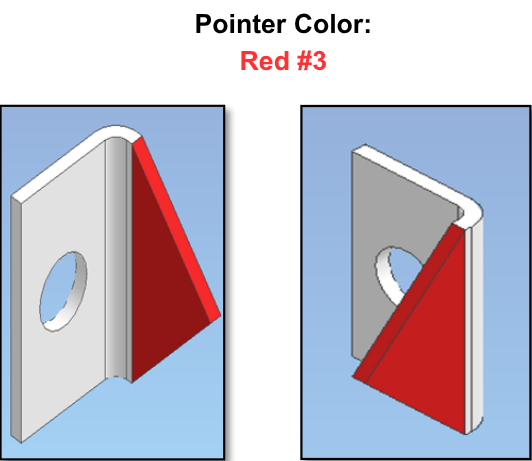
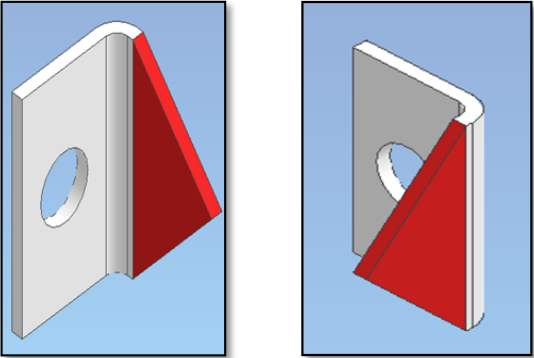
center standard 1

diff --git a/frontend/src/components/3D_Modeling/3D_Standard.tsx b/frontend/src/components/3D_Modeling/3D_Standard.tsx
@@ -134,6 +134,8 @@ const StandardLesson: React.FC<StandardLessonProps> = ({
                   <br />
                   <br />
                   <div>
+                    <span style={{ fontSize: '2rem', marginLeft: "10rem" }}>Pointer Color:</span> <br />
+                    <span style={{ fontSize: '2rem', marginLeft: "13rem", color: "#da2525ff" }}>Red#3</span>
                     <img src={pointerColor} alt="Pointer Color 3D" className="software-screenshot screenshot-medium" />
                   </div>
                 </div>
